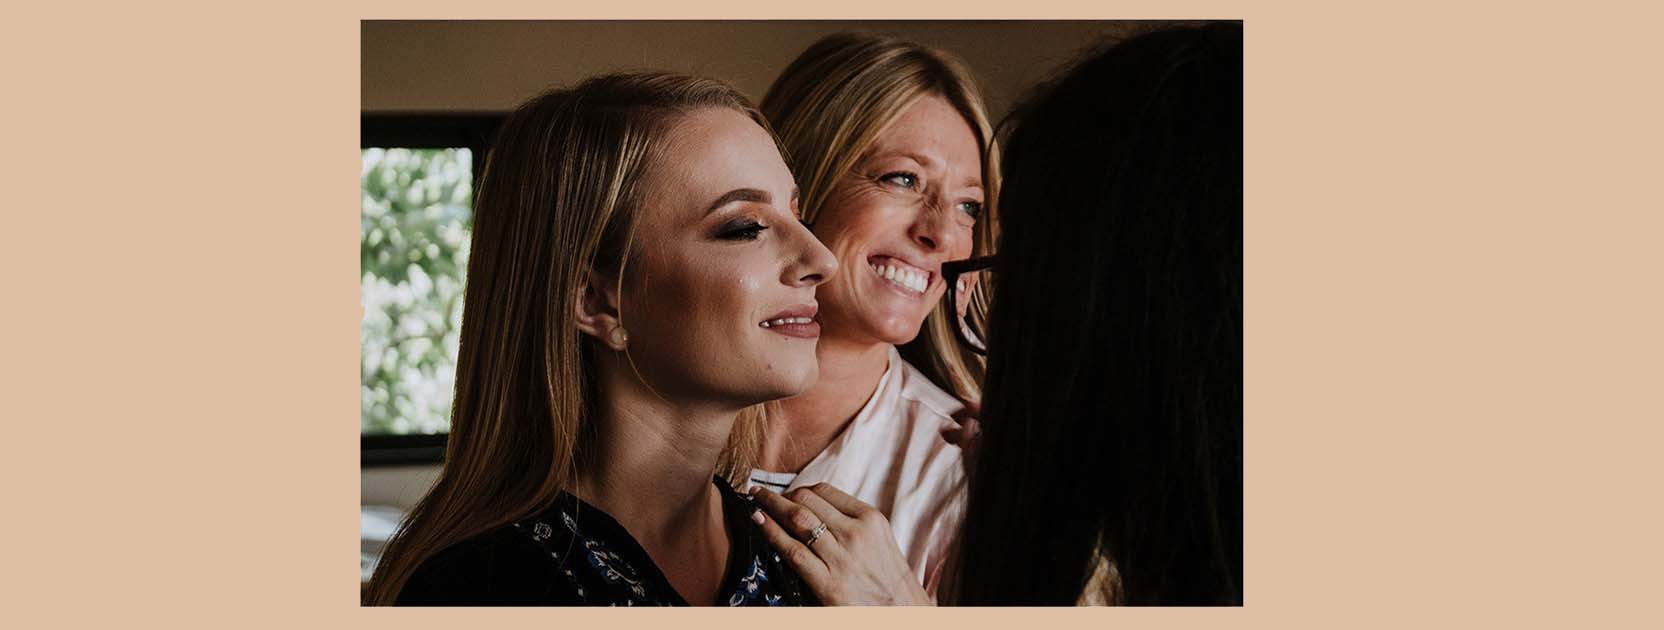
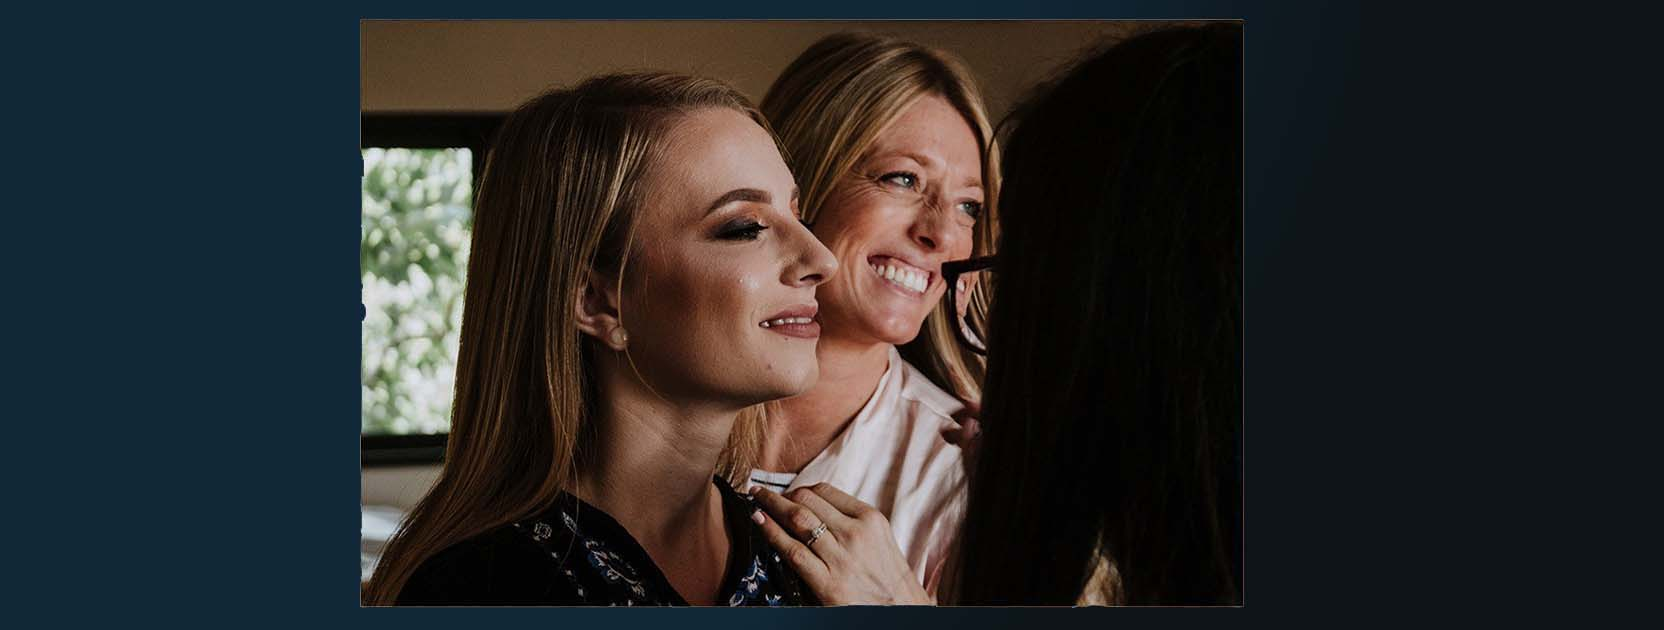
Edite el Readme para explicar mejor que hice, modifique la hoja de estilo, intregue el mediaquery, modifique las imagenes para que el color fuera acorde a la pagina.

diff --git a/index.html b/index.html
@@ -65,22 +65,50 @@
 </div>
           <div class="row justify-content-center">
             <div class="col-4 border-r-4 border-slate-950 border-double text1">
-              <h1 class="text-align-center text-center font-bold" id="textindex">FOTOGRAFO DE EVENTOS</h1>
+              <h1 id="fot">FOTOGRAFO DE EVENTOS</h1>
             </div>
             <div class="col-4">
-               <h1 class="text-align-center font-bold textindex2" id="textindex"> ¡Hola! Soy Jesby y me encantaría poder retratar a través de una fotografía ese momento único que perdurará para la eternidad. </h1>
+               <h1 id="fot"> ¡Hola! Soy Jesby y me encantaría poder retratar a través de una fotografía ese momento único que perdurará para la eternidad. </h1>
             </div>
           </div>
+          <div class="container">
+            <!-- Creamos una fila (row) para contener nuestras columnas -->
+            <div class="row">
+                <!-- Primera Columna: Ocupará 6 de 12 columnas en pantallas medianas o más grandes -->
+                <div class="col-md-6">
+                    <div style="background-color: #efa94a; padding: 20px; text-align: center;">
+                        <h2>SESIONES</h2>
+                        <p>PERSONALES</p>
+                    </div>
+                </div>
+                <!-- Segunda Columna: Ocupará 6 de 12 columnas en pantallas medianas o más grandes -->
+                <div class="col-md-6">
+                    <div style="background-color: #3498db; padding: 20px; text-align: center;">
+                        <h2>EVENTOS</h2>
+                        <p>EMPRESARIALES</p>
+                    </div>
+                </div>
+              </div>
+              <div class="row">
+                  <!-- Primera Columna: Ocupará 6 de 12 columnas en pantallas medianas o más grandes -->
+                <div class="col-md-6">
+                    <div style="background-color: #3498db; padding: 20px; text-align: center;">
+                          <h2>BODAS</h2>
+                          <p>XV AÑOS</p>
+                    </div>
+                </div>
+                  <!-- Segunda Columna: Ocupará 6 de 12 columnas en pantallas medianas o más grandes -->
+                <div class="col-md-6">
+                    <div style="background-color: #efa94a; padding: 20px; text-align: center;">
+                        <h2>BABY SHOWER</h2>
+                        <p>BAUTIZOS</p>
+                    </div>
+                </div>
+              </div>
+        </div>
           <script src="https://cdn.jsdelivr.net/npm/@popperjs/core@2.11.7/dist/umd/popper.min.js" integrity="sha384-zYPOMqeu1DAVkHiLqWBUTcbYfZ8osu1Nd6Z89ify25QV9guujx43ITvfi12/QExE" crossorigin="anonymous"></script>
           <script src="https://cdn.jsdelivr.net/npm/bootstrap@5.3.0-alpha3/dist/js/bootstrap.min.js" integrity="sha384-Y4oOpwW3duJdCWv5ly8SCFYWqFDsfob/3GkgExXKV4idmbt98QcxXYs9UoXAB7BZ" crossorigin="anonymous"></script>
           <script src="https://code.jquery.com/jquery-3.6.0.min.js%22%3E></script>
-          <script>
-            $(document).ready(function(){
-              $('#menu-toggle').click(function(){
-                $('nav').toggleClass('hidden');
-
-              });
-            });
-           </script>
-        </body>
-</html>
+          
+          
+        

diff --git a/scss/main.scss b/scss/main.scss
@@ -1,14 +1,14 @@
 $primary-color: #be6a41;
-$color1: #090240;
+$color1: #eceaff;
 tr,
 th,
 td {
-    color: rgb(2, 32, 58);
+    color: rgb(255, 255, 255);
 }
 table.default th {
     padding: 0.2em 0.8em;
-    border: 1px solid rgba(20, 50, 90, 0.25);
-    background: rgba(0, 102, 255, 0.25);
+    border: 1px solid rgba(53, 108, 180, 0.25);
+    background: rgba(96, 125, 168, 0.25);
     text-align: center;
   }
   
@@ -69,7 +69,7 @@ table.default th {
   
   }
 
-  h2{
+  h2,h3{
     font-size: x-large;
     font-weight: 900;
     text-align: -webkit-center;
@@ -87,7 +87,7 @@ table.default th {
  //   list-style-type: decimal;
    // margin-left: 25%; 
     //padding: 10px;
-    color: white;    
+    color: rgb(211, 193, 115);    
   }
   menu,ol ul {
     list-style-type: circle;
@@ -100,3 +100,17 @@ menu,ul, li {
      margin-left: 10%; 
      //padding: 10px;  
    }
+#fot{
+  color: white;
+}
+
+ol > li { 
+  color: rgb(255, 255, 255);
+ 
+}
+
+@media (max-width: 600px) {
+  body {
+    background: linear-gradient(45deg, rgb(223, 213, 18), rgb(88, 86, 86));
+  }
+}

diff --git a/css/main.css b/css/main.css
@@ -1,13 +1,13 @@
 tr,
 th,
 td {
-  color: rgb(2, 32, 58);
+  color: rgb(255, 255, 255);
 }
 
 table.default th {
   padding: 0.2em 0.8em;
-  border: 1px solid rgba(20, 50, 90, 0.25);
-  background: rgba(0, 102, 255, 0.25);
+  border: 1px solid rgba(53, 108, 180, 0.25);
+  background: rgba(96, 125, 168, 0.25);
   text-align: center;
 }
 
@@ -49,7 +49,7 @@ user agent stylesheet table {
 
 caption {
   text-align: center;
-  color: #090240;
+  color: #eceaff;
 }
 
 .carousel-item img {
@@ -69,7 +69,7 @@ caption {
   text-align: -webkit-center;
 }
 
-h2 {
+h2, h3 {
   font-size: x-large;
   font-weight: 900;
   text-align: -webkit-center;
@@ -85,7 +85,7 @@ menu, ol {
 }
 
 menu, ol, li {
-  color: white;
+  color: rgb(211, 193, 115);
 }
 
 menu, ol ul {
@@ -95,4 +95,18 @@ menu, ol ul {
 
 menu, ul, li {
   margin-left: 10%;
+}
+
+#fot {
+  color: white;
+}
+
+ol > li {
+  color: rgb(255, 255, 255);
+}
+
+@media (max-width: 600px) {
+  body {
+    background: linear-gradient(45deg, rgb(223, 213, 18), rgb(88, 86, 86));
+  }
 }/*# sourceMappingURL=main.css.map */

diff --git a/dos.html b/dos.html
@@ -77,8 +77,14 @@
           <li>Eclesiasticas</li>
           <li>Civiles</li>
         </ul>
-        <li>Sesiones pre o post boda</li>
-        <li>Sesiones XV años</li>
+        <li>Sesiones Fotograficas</li>
+        <ul>
+          <li>Pre Boda</li>
+          <li>Post Bda</li>
+          <li>Personales</li>
+          <li>De producto</li>
+        </ul>
+        <li>Bautizos o Babyshower</li>
         <li>XV Años</li>
         <li>Eventos ejecutivos</li>
       </ol>

diff --git a/README.md b/README.md
@@ -45,13 +45,17 @@ Project0
 Mi project0 lo realice para mi portafolio de fotografia,
 este proyecto esta dividido en 4 paginas.
 
-La primera pagina es el index y es el home de mi pagina donde agregue imagenes en carrusel y un poco de texto usando las etiquetas de html.
+La primera pagina es el index y es el home de mi pagina donde agregue imagenes y un poco de texto usando las etiquetas de html, tambien agregue un layout y combinaciones de selectores de css tambien selector identificador.
 
-La seguna pagina la nombre dos y en ella esta todo lo relacionado a sobre mi, en ella agregue imagen y una lista combinada(ordenada y desordenada).
+La seguna pagina en ella esta todo lo relacionado a sobre mi, agregue una imagen mia y una lista combinada(ordenada y desordenada) usando selector de hijos de css.
 
-La tercera pagina es una galeria de fotos y en ella agregue una tabla donde describe las razones de contratar un fotografo.
+La tercera pagina es una galeria de fotos y en ella agregue una tabla donde describe las razones de contratar un fotografo, use los selectores etiqueta tr,th,td y de clase de css.
 
 En la ultima pagina llamada contacto agregue un formulario con un boton para poder enviar un mensaje a traves de correo.
+
+Tambien implemente el mediaquery que pedian de tal manera que cuando sea una pantalla con resolucion menor de 600px cambie el color del body.
+
+Se que no estaba permitido el uso de tailwindcss pero lo use solo para el formulario de correo y para la navbar.
 
 ## Muchas Gracias
 Mi primer proyecto en Web :)
